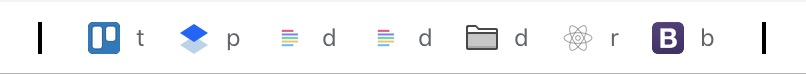
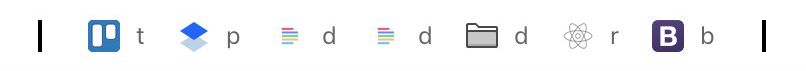
Update preview.

diff --git a/readme.md b/readme.md
@@ -6,4 +6,4 @@ Example: /hex-color-code/width(1-16)
 
 [https://separator.glitch.me/000000/1](https://separator.glitch.me/000000/1)
 
-![](preview.jpg?v=2)
+![](preview.jpg?v=3)
